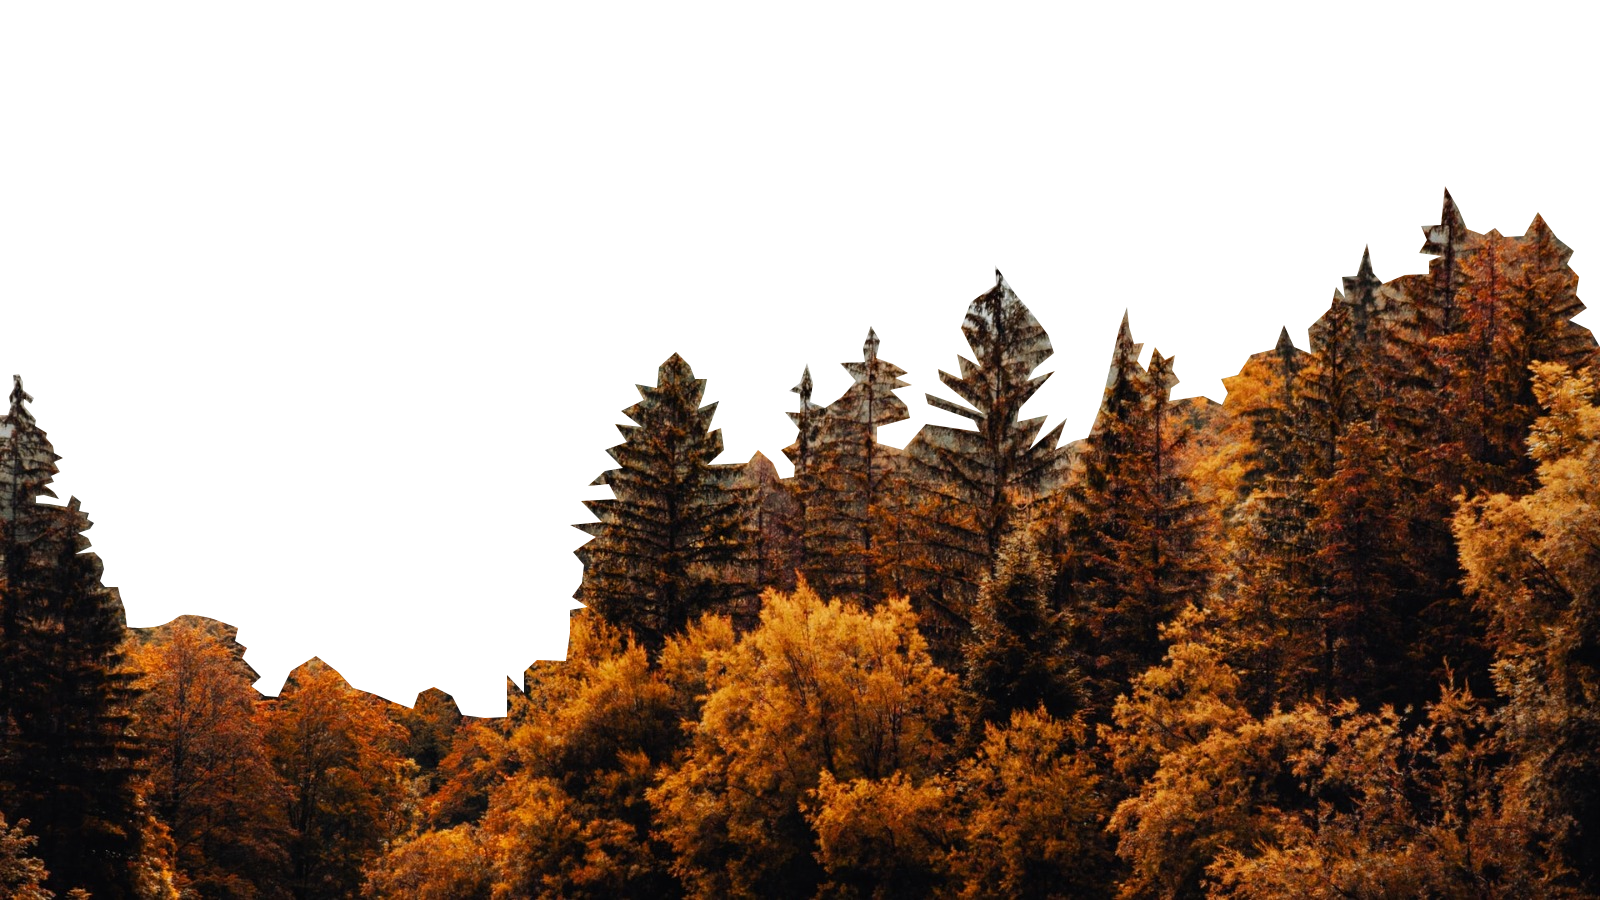
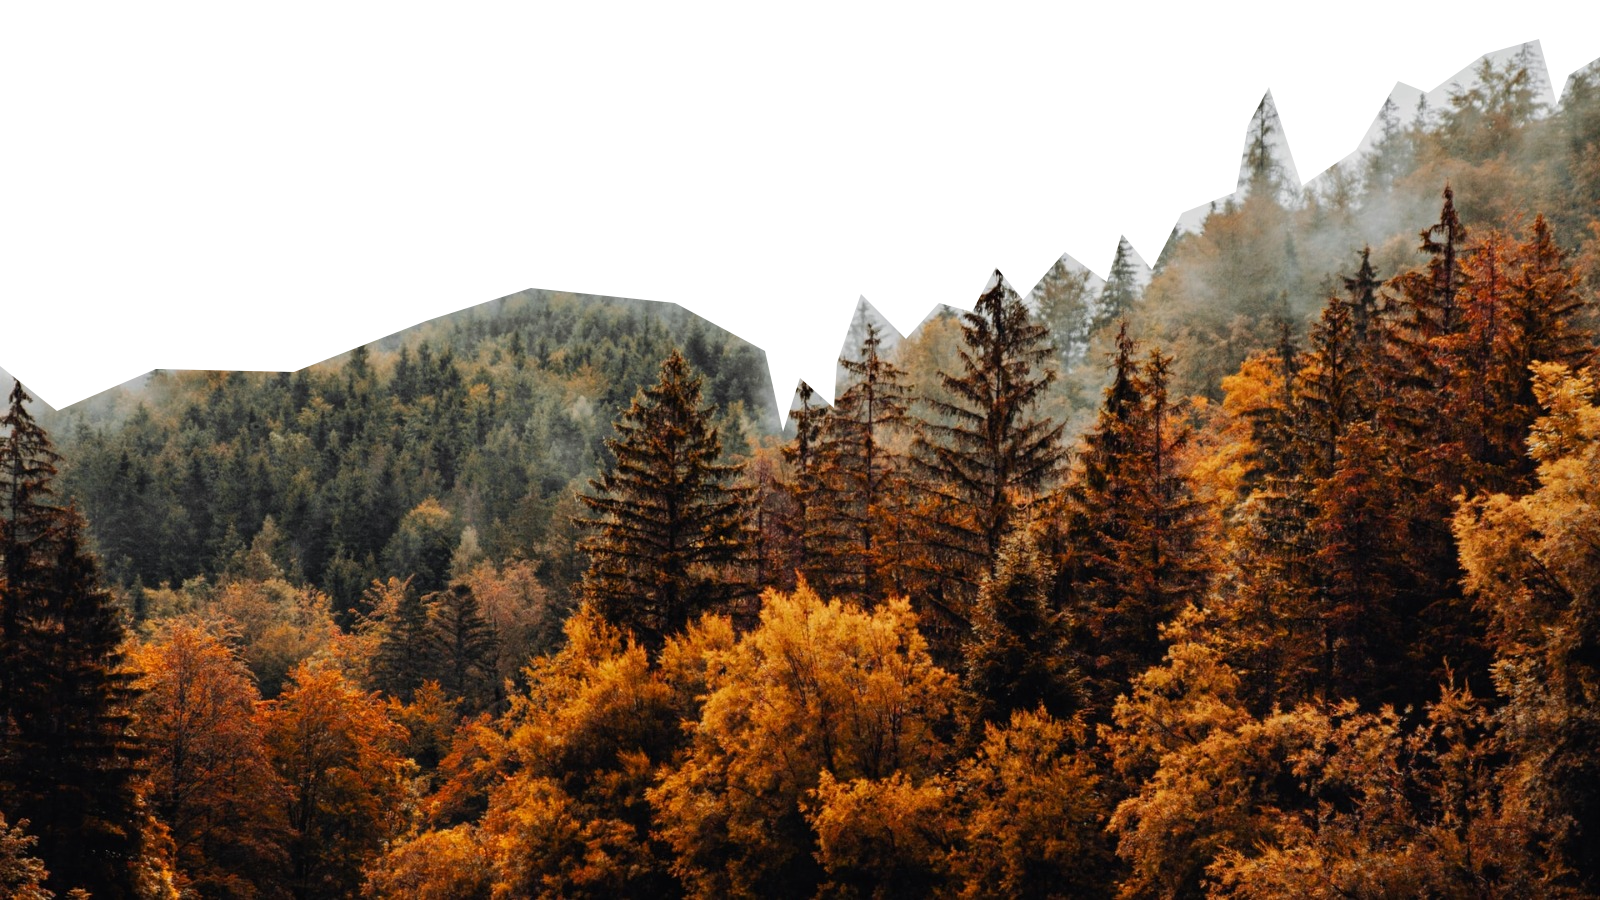
Arreglo del parallax

Changed region(s): [[0.0, 0.0311, 1.0, 0.8089]]

diff --git a/style.css b/style.css
@@ -5,39 +5,42 @@
   overflow-x: hidden; /* Caro:Saca la barra de desplazamiento al ancho, 
   quitar si quieren o les jode en algo, no cambia en negativo nada de lo trabajado si se quita.*/
 }
+
+
 /*TODO todos: Armar parallax Header y armar footer*/
 /*TODO CARO PAGINA VOLUNTARIADO: posiblemente ampliar el ancho del contenedor, 
 lo que implique realizar un cambio en Javascript. Hay mucho espacio en ancho
 desperdiciado y seguramente sea una posible critica al diseño de la pagina*/
 .parallax{
   width: 100vw;
-  max-height: 100vh;
+  height: 100vh;
 }
 
-.Imagen{
-  z-index: 1;
-  width: 100vw;
-  height: 100vh;
-  max-height: 100vh;
+.Imagen {
+  width: 100%;
+  height: 100%;
   background-size: cover;
   background-position: center;
-  background-repeat: no-repeat;
 }
 
-
-.imagenCielo{
-  z-index:2;
-background-image: url("img/cielo.png");
-}
-
-.imagenMontania{
-  height: 105vh;
+.imagenCielo {
   position: absolute;
-  left: -0.75%;
-  width: 102vw;
-  top: -6px;
-  z-index: 4;
-background-image: url("img/Montania.png");
+  top: 0;
+  left: 0;
+  width: 100%;
+  height: 100%;
+  background-image: url("img/cielo.png");
+  z-index: 1;
+}
+
+.imagenMontania {
+  position: absolute;
+  top: 0;
+  left: 0;
+  width: 100%;
+  height: 100%;
+  background-image: url("img/Montania.png");
+  z-index: 2;
 }
 
 
